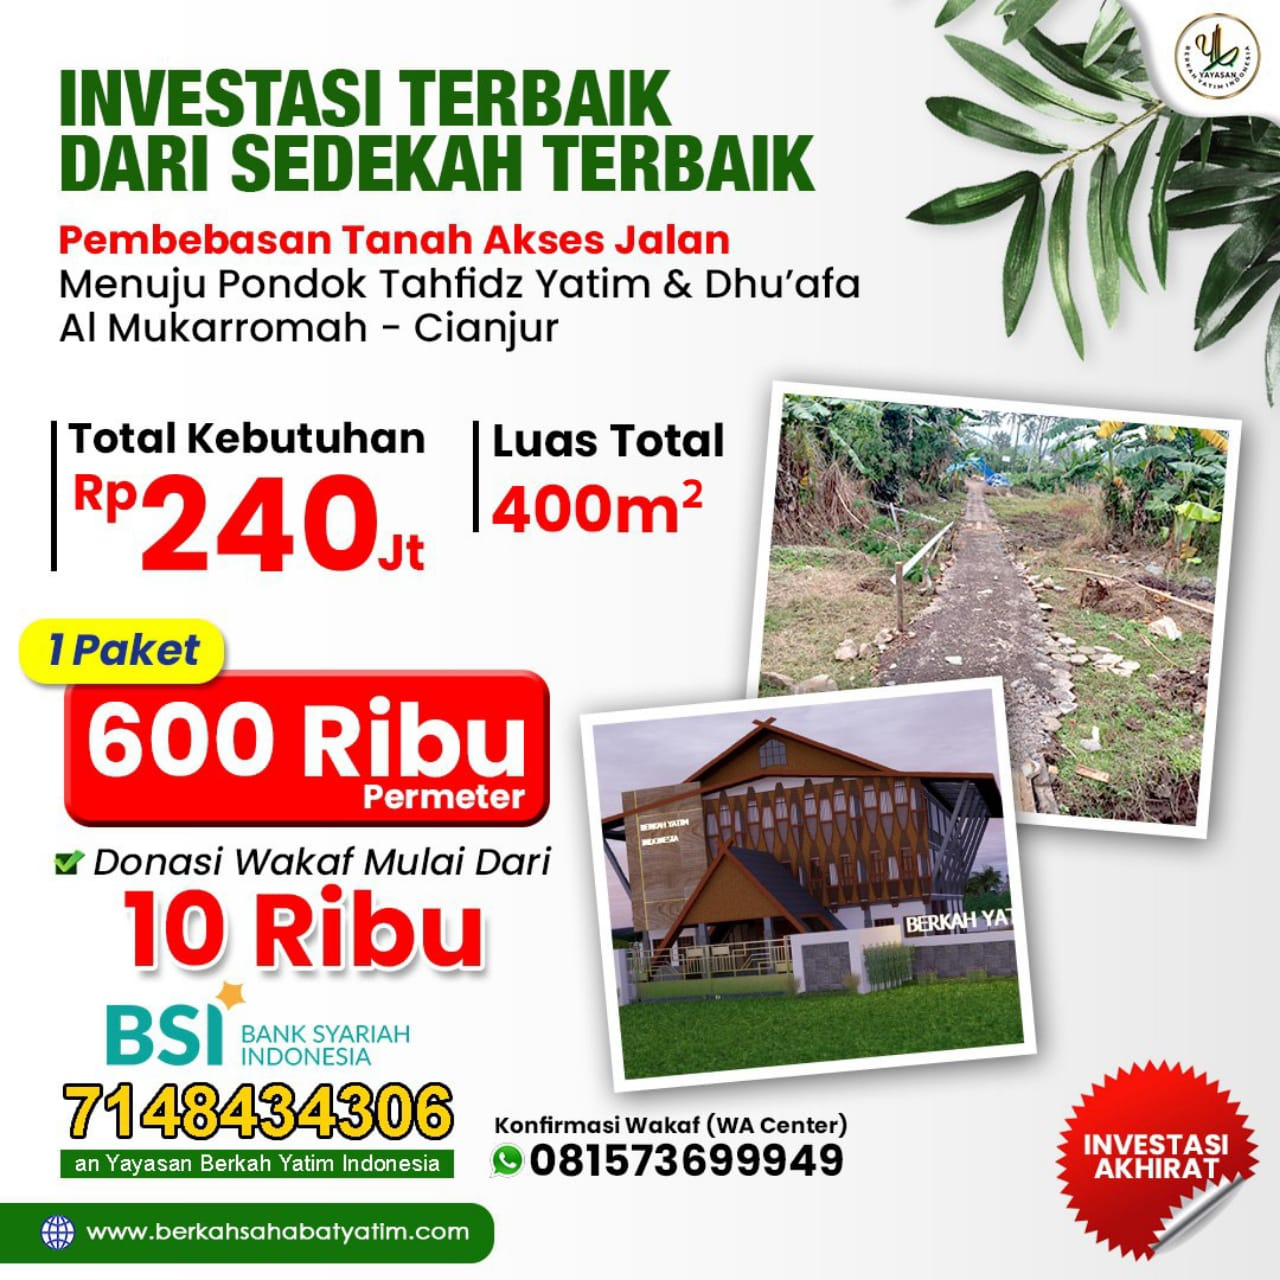
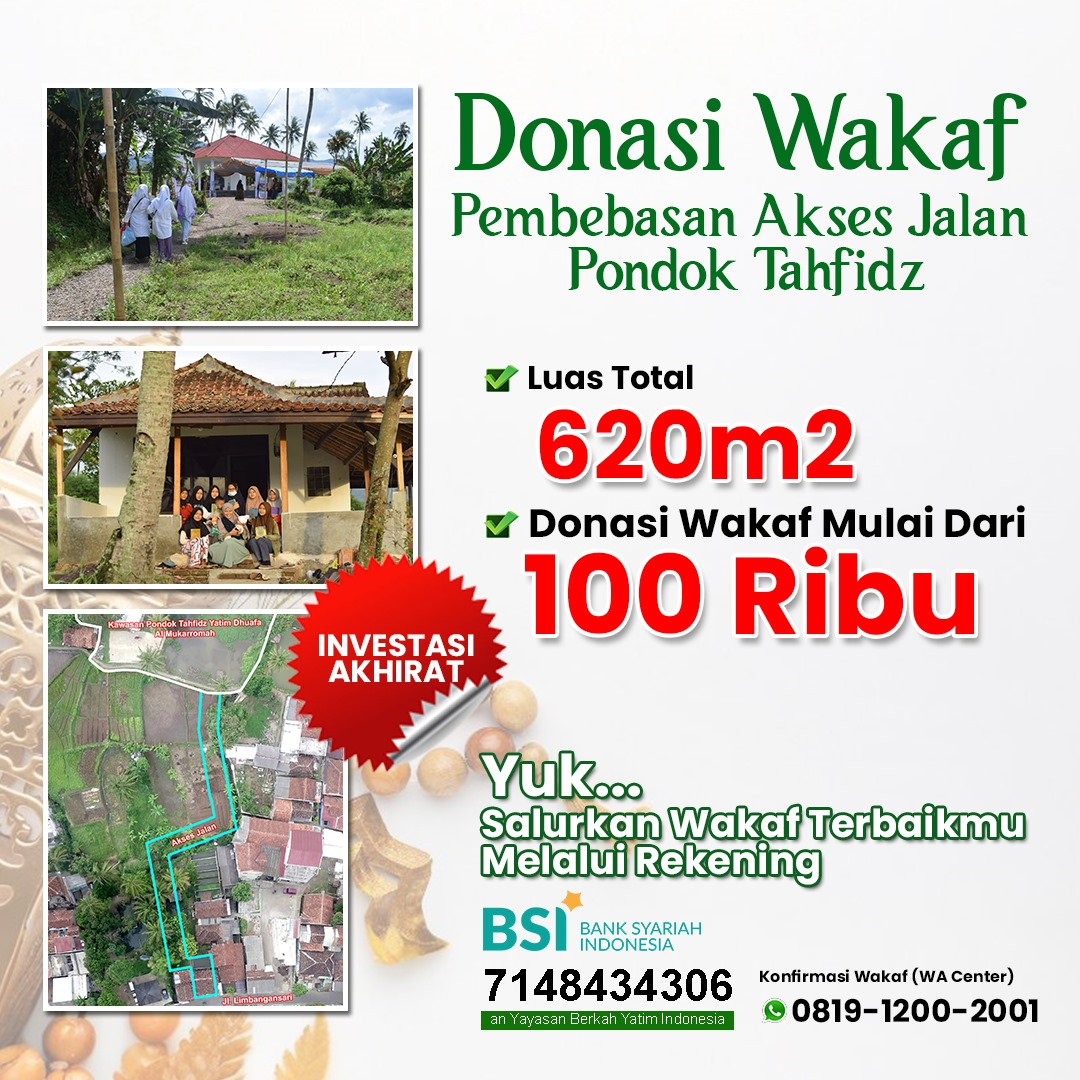
change image and fix dialog

diff --git a/pages/index.js b/pages/index.js
@@ -24,8 +24,16 @@ const popupStyles = `
         padding: 20px;
         border-radius: 8px;
         position: relative;
-        max-width: 90vw;  /* Changed from 220px to 90% of viewport width */
-        width: 90%;       /* Added to ensure consistent width */
+        max-width: 500px;     /* Fixed max-width for desktop */
+        width: 90%;          /* Percentage width for mobile */
+        max-height: 90vh;    /* Maximum height of 90% viewport height */
+        margin: auto;        /* Center the content */
+    }
+
+    .popup-content img {
+        max-height: 80vh;    /* Maximum image height */
+        object-fit: contain; /* Maintain aspect ratio */
+        width: 100%;
     }
 
     .popup-close {
